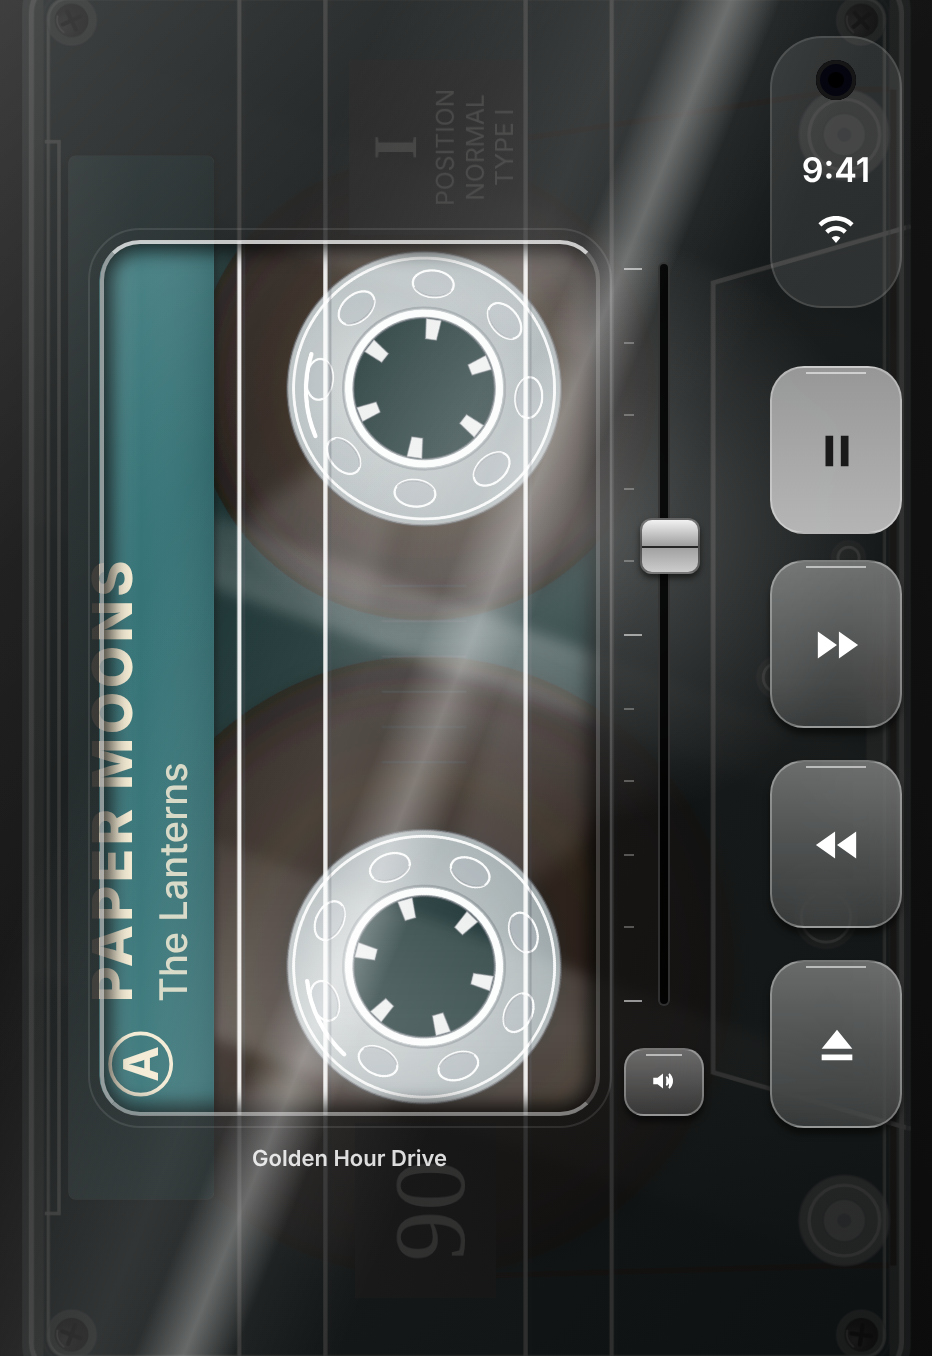
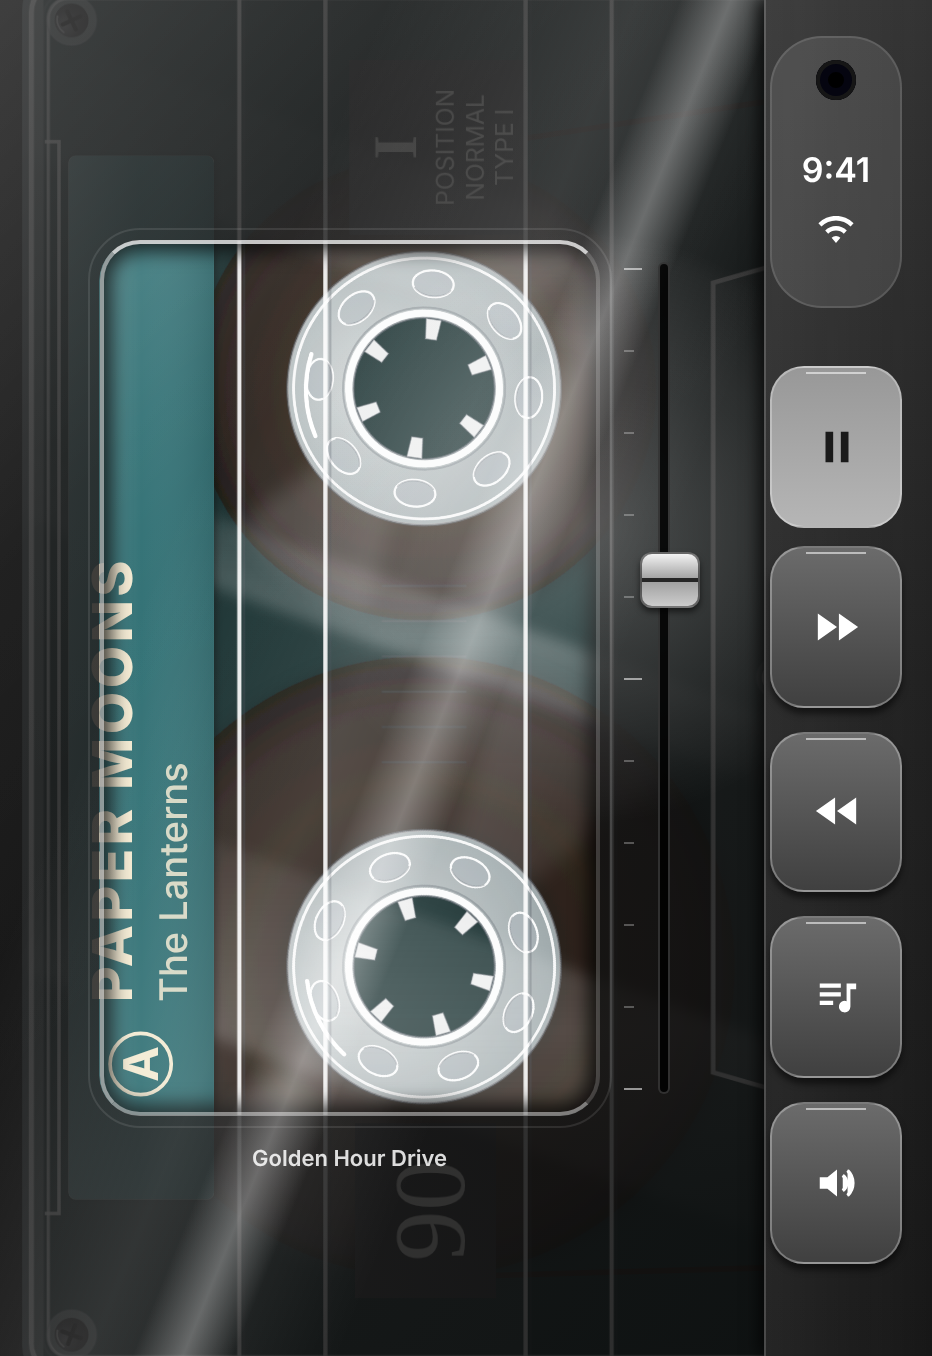
Five equal keys on a solid panel; library key replaces eject
Mute moves into the key column at full size, the eject key becomes a
tape library key, and the side carrying the keys is solid plastic
instead of see-through.

Claude-Session: https://claude.ai/code/session_015CNmSEpanpmujmbPK8yXHv

diff --git a/TapeDeck/DeckView.swift b/TapeDeck/DeckView.swift
@@ -13,6 +13,8 @@ import SwiftUI
 /// get a strip of their own inside the safe area.
 struct DeckView: View {
     @EnvironmentObject private var model: PlayerModel
+    /// Shared by the fader beside the window and the mute key in the column.
+    @StateObject private var volume = SystemVolume()
     var openShelf: () -> Void
 
     /// Width of the key column on phones that have no side rail.
@@ -22,7 +24,7 @@ struct DeckView: View {
     private let railKeyWidth: CGFloat = 66
     private let railOuterMargin: CGFloat = 15
     private let bigKeyHeight: CGFloat = 84
-    private let keyGap: CGFloat = 16
+    private let keyGap: CGFloat = 12
     /// Height kept clear at the top of the rail for the camera, clock and
     /// status icons. Measured from a Duo screenshot, where the status pill
     /// ends about 154 points down; not a published figure.
@@ -75,7 +77,7 @@ struct DeckView: View {
             }
             // Volume: beside the window and exactly as tall as it is
             .overlay(alignment: .topLeading) {
-                VolumeColumn()
+                VolumeFader(volume: volume)
                     .frame(width: 40, height: window.height)
                     .offset(x: railLeading ? window.minX - 52 : window.maxX + 12, y: window.minY)
             }
@@ -227,14 +229,39 @@ struct DeckView: View {
 
     // MARK: Keys
 
-    /// Four big keys: play/pause, fast forward, rewind and eject.
+    /// Five keys of one size: play/pause, fast forward, rewind, the tape
+    /// library, and mute.
     private func keys(height: CGFloat) -> some View {
-        TransportKeys(vertical: true, keyHeight: height, bare: true, big: true,
-                      spacing: keyGap, onEject: openShelf)
+        VStack(spacing: keyGap) {
+            TransportKeys(vertical: true, keyHeight: height, bare: true, big: true,
+                          spacing: keyGap, onEject: openShelf)
+            TapeKey(symbol: volume.isMuted ? "speaker.slash.fill" : "speaker.wave.2.fill",
+                    label: volume.isMuted ? "Unmute" : "Mute",
+                    latched: volume.isMuted,
+                    height: height, showsLabel: false, corner: 17, symbolSize: 23,
+                    onDown: {
+                        Haptics.keyDown()
+                        volume.toggleMute()
+                    })
+        }
     }
 
     private func keyHeight(room: CGFloat) -> CGFloat {
-        min(bigKeyHeight, max(40, (room - 3 * keyGap) / 4))
+        min(bigKeyHeight, max(40, (room - 4 * keyGap) / 5))
+    }
+
+    /// The side of the player that carries the keys: solid plastic, not see
+    /// through, with a seam where it meets the clear part of the case.
+    private func casePanel(seamOnLeading: Bool) -> some View {
+        ZStack(alignment: seamOnLeading ? .leading : .trailing) {
+            LinearGradient(colors: [Color(white: 0.20), Color(white: 0.13), Color(white: 0.09)],
+                           startPoint: .top, endPoint: .bottom)
+            LinearGradient(colors: [Color.white.opacity(0.06), .clear],
+                           startPoint: seamOnLeading ? .leading : .trailing,
+                           endPoint: seamOnLeading ? .trailing : .leading)
+            Color.white.opacity(0.22).frame(width: 1)
+        }
+        .shadow(color: .black.opacity(0.65), radius: 7, x: seamOnLeading ? -3 : 3)
     }
 
     /// The column of keys. In the Duo's rail it starts below the camera and
@@ -256,6 +283,7 @@ struct DeckView: View {
                 .padding(.trailing, leading ? inner : railOuterMargin)
             }
             .frame(width: width)
+            .background(casePanel(seamOnLeading: !leading))
         } else {
             GeometryReader { geo in
                 let room = geo.size.height - insets.top - insets.bottom - 24
@@ -269,9 +297,9 @@ struct DeckView: View {
                 .padding(.leading, 8)
                 .padding(.trailing, 8 + insets.trailing)
                 .frame(width: stripWidth + insets.trailing, height: geo.size.height)
-
             }
             .frame(width: stripWidth + insets.trailing)
+            .background(casePanel(seamOnLeading: true))
         }
     }
 }
@@ -337,7 +365,10 @@ struct TransportKeys: View {
                     height: keyHeight, showsLabel: labels, corner: corner, symbolSize: symbol,
                     onDown: { model.seekKeyDown(forward: false) },
                     onUp: { model.seekKeyUp(forward: false) })
-            TapeKey(symbol: "eject.fill", label: "EJECT",
+            // On the closed phone this key opens the tape library; where it
+            // takes the tape out, it is an eject key.
+            TapeKey(symbol: ejectRemovesTape ? "eject.fill" : "music.note.list",
+                    label: ejectRemovesTape ? "EJECT" : "Tape library",
                     height: keyHeight, showsLabel: labels, corner: corner, symbolSize: symbol,
                     onDown: {
                         model.ejectKey(removeTape: ejectRemovesTape)
@@ -354,7 +385,7 @@ struct TransportKeys: View {
     }
 }
 
-/// One mechanical key, moulded in clear plastic. It reports press and release separately so rewind and
+/// One mechanical key, moulded in solid plastic. It reports press and release separately so rewind and
 /// fast forward can tell a tap from a hold, and stays down while latched.
 struct TapeKey: View {
     var symbol: String
@@ -386,7 +417,6 @@ struct TapeKey: View {
             RoundedRectangle(cornerRadius: corner)
                 .fill(LinearGradient(colors: keyColors(down: down), startPoint: .top, endPoint: .bottom))
         )
-        .background(.ultraThinMaterial, in: RoundedRectangle(cornerRadius: corner))
         .overlay(RoundedRectangle(cornerRadius: corner).strokeBorder(Color.white.opacity(0.30), lineWidth: 0.75))
         // Light catching the moulded top edge
         .overlay(alignment: .top) {
@@ -430,9 +460,10 @@ struct TapeKey: View {
                 ? [Color(white: 0.62).opacity(0.95), Color(white: 0.74).opacity(0.95)]
                 : [Color(white: 0.96).opacity(0.95), Color(white: 0.74).opacity(0.95)]
         }
+        // Solid plastic, like the panel the keys sit in
         return down
-            ? [Color.white.opacity(0.10), Color.white.opacity(0.18)]
-            : [Color.white.opacity(0.36), Color.white.opacity(0.14)]
+            ? [Color(white: 0.15), Color(white: 0.21)]
+            : [Color(white: 0.42), Color(white: 0.25)]
     }
 }
 

diff --git a/TapeDeck/VolumeFader.swift b/TapeDeck/VolumeFader.swift
@@ -144,22 +144,3 @@ struct VolumeFader: View {
         }
     }
 }
-
-/// The fader with a mute key under it.
-struct VolumeColumn: View {
-    @StateObject private var volume = SystemVolume()
-
-    var body: some View {
-        VStack(spacing: 10) {
-            VolumeFader(volume: volume)
-            TapeKey(symbol: volume.isMuted ? "speaker.slash.fill" : "speaker.wave.2.fill",
-                    label: volume.isMuted ? "Unmute" : "Mute",
-                    latched: volume.isMuted,
-                    height: 34, showsLabel: false, corner: 10, symbolSize: 13,
-                    onDown: {
-                        Haptics.keyDown()
-                        volume.toggleMute()
-                    })
-        }
-    }
-}

diff --git a/README.md b/README.md
@@ -6,7 +6,7 @@ A cassette player for Apple Music. Your playlists and albums are tapes on a shel
 
 * Plays your Apple Music library and anything from the Apple Music catalogue (MusicKit).
 * Closed phone (or any ordinary phone screen): the whole screen is the body of a tape player with the cassette inside it. The cassette is as large as the screen allows and runs underneath the body and the keys. The smoked casing covers most of it, dimly showing what is underneath, and a clear window over the label and reels shows the tape itself. Colours are neutral throughout: greys, black and off-white. Glare on the body moves only when the phone moves: reflections slide as it tilts left and right, and a hot spot follows both tilts.
-* Built for the iPhone Duo's outer display, 466 x 678 points. iOS reserves an 84 point column down one side for the camera, clock and status icons; four large keys (play/pause, fast forward, rewind, eject) sit in that column underneath them. Eject opens the tape shelf. There is no stop key: pause stops the music and keeps your place. On other phones the keys get their own strip. A vertical volume fader stands beside the tape window, exactly as tall as it, with a mute key at its foot. It sets the phone's volume and follows the side buttons.
+* Built for the iPhone Duo's outer display, 466 x 678 points. iOS reserves an 84 point column down one side for the camera, clock and status icons; five large keys (play/pause, fast forward, rewind, tape library, mute) sit in that column underneath them, on a solid plastic panel that is not see-through. There is no stop key: pause stops the music and keeps your place. On other phones the keys get their own strip. A vertical volume fader stands beside the tape window, exactly as tall as it. It sets the phone's volume and follows the side buttons.
 * Haptics: a firm tap when a key goes down, a lighter one when it springs back, a heavy thud for the cassette door, and a soft pulse four times a second while the tape winds.
 * The cassette is a clear one. The shell front is see-through artwork (bright moulded edges and ridges, stickers, a stick-on paper label, guide rollers, black screws, reflections). Under it the whole reels, their clear hubs, the tape running down to the rollers and the handwriting on the label are drawn live. The artwork source is `tools/cassette-art.html`; `node tools/render-art.js` re-renders it.
 * Open phone (a large, wide screen): the tape shelf on the left and the chosen tape on the right. The shelf shows each playlist and album as a cassette spine: an off-white card with the name handwritten on it and a grey band. Pick a tape, then close the phone to start it playing. The keys are there too, for screens that cannot fold.
